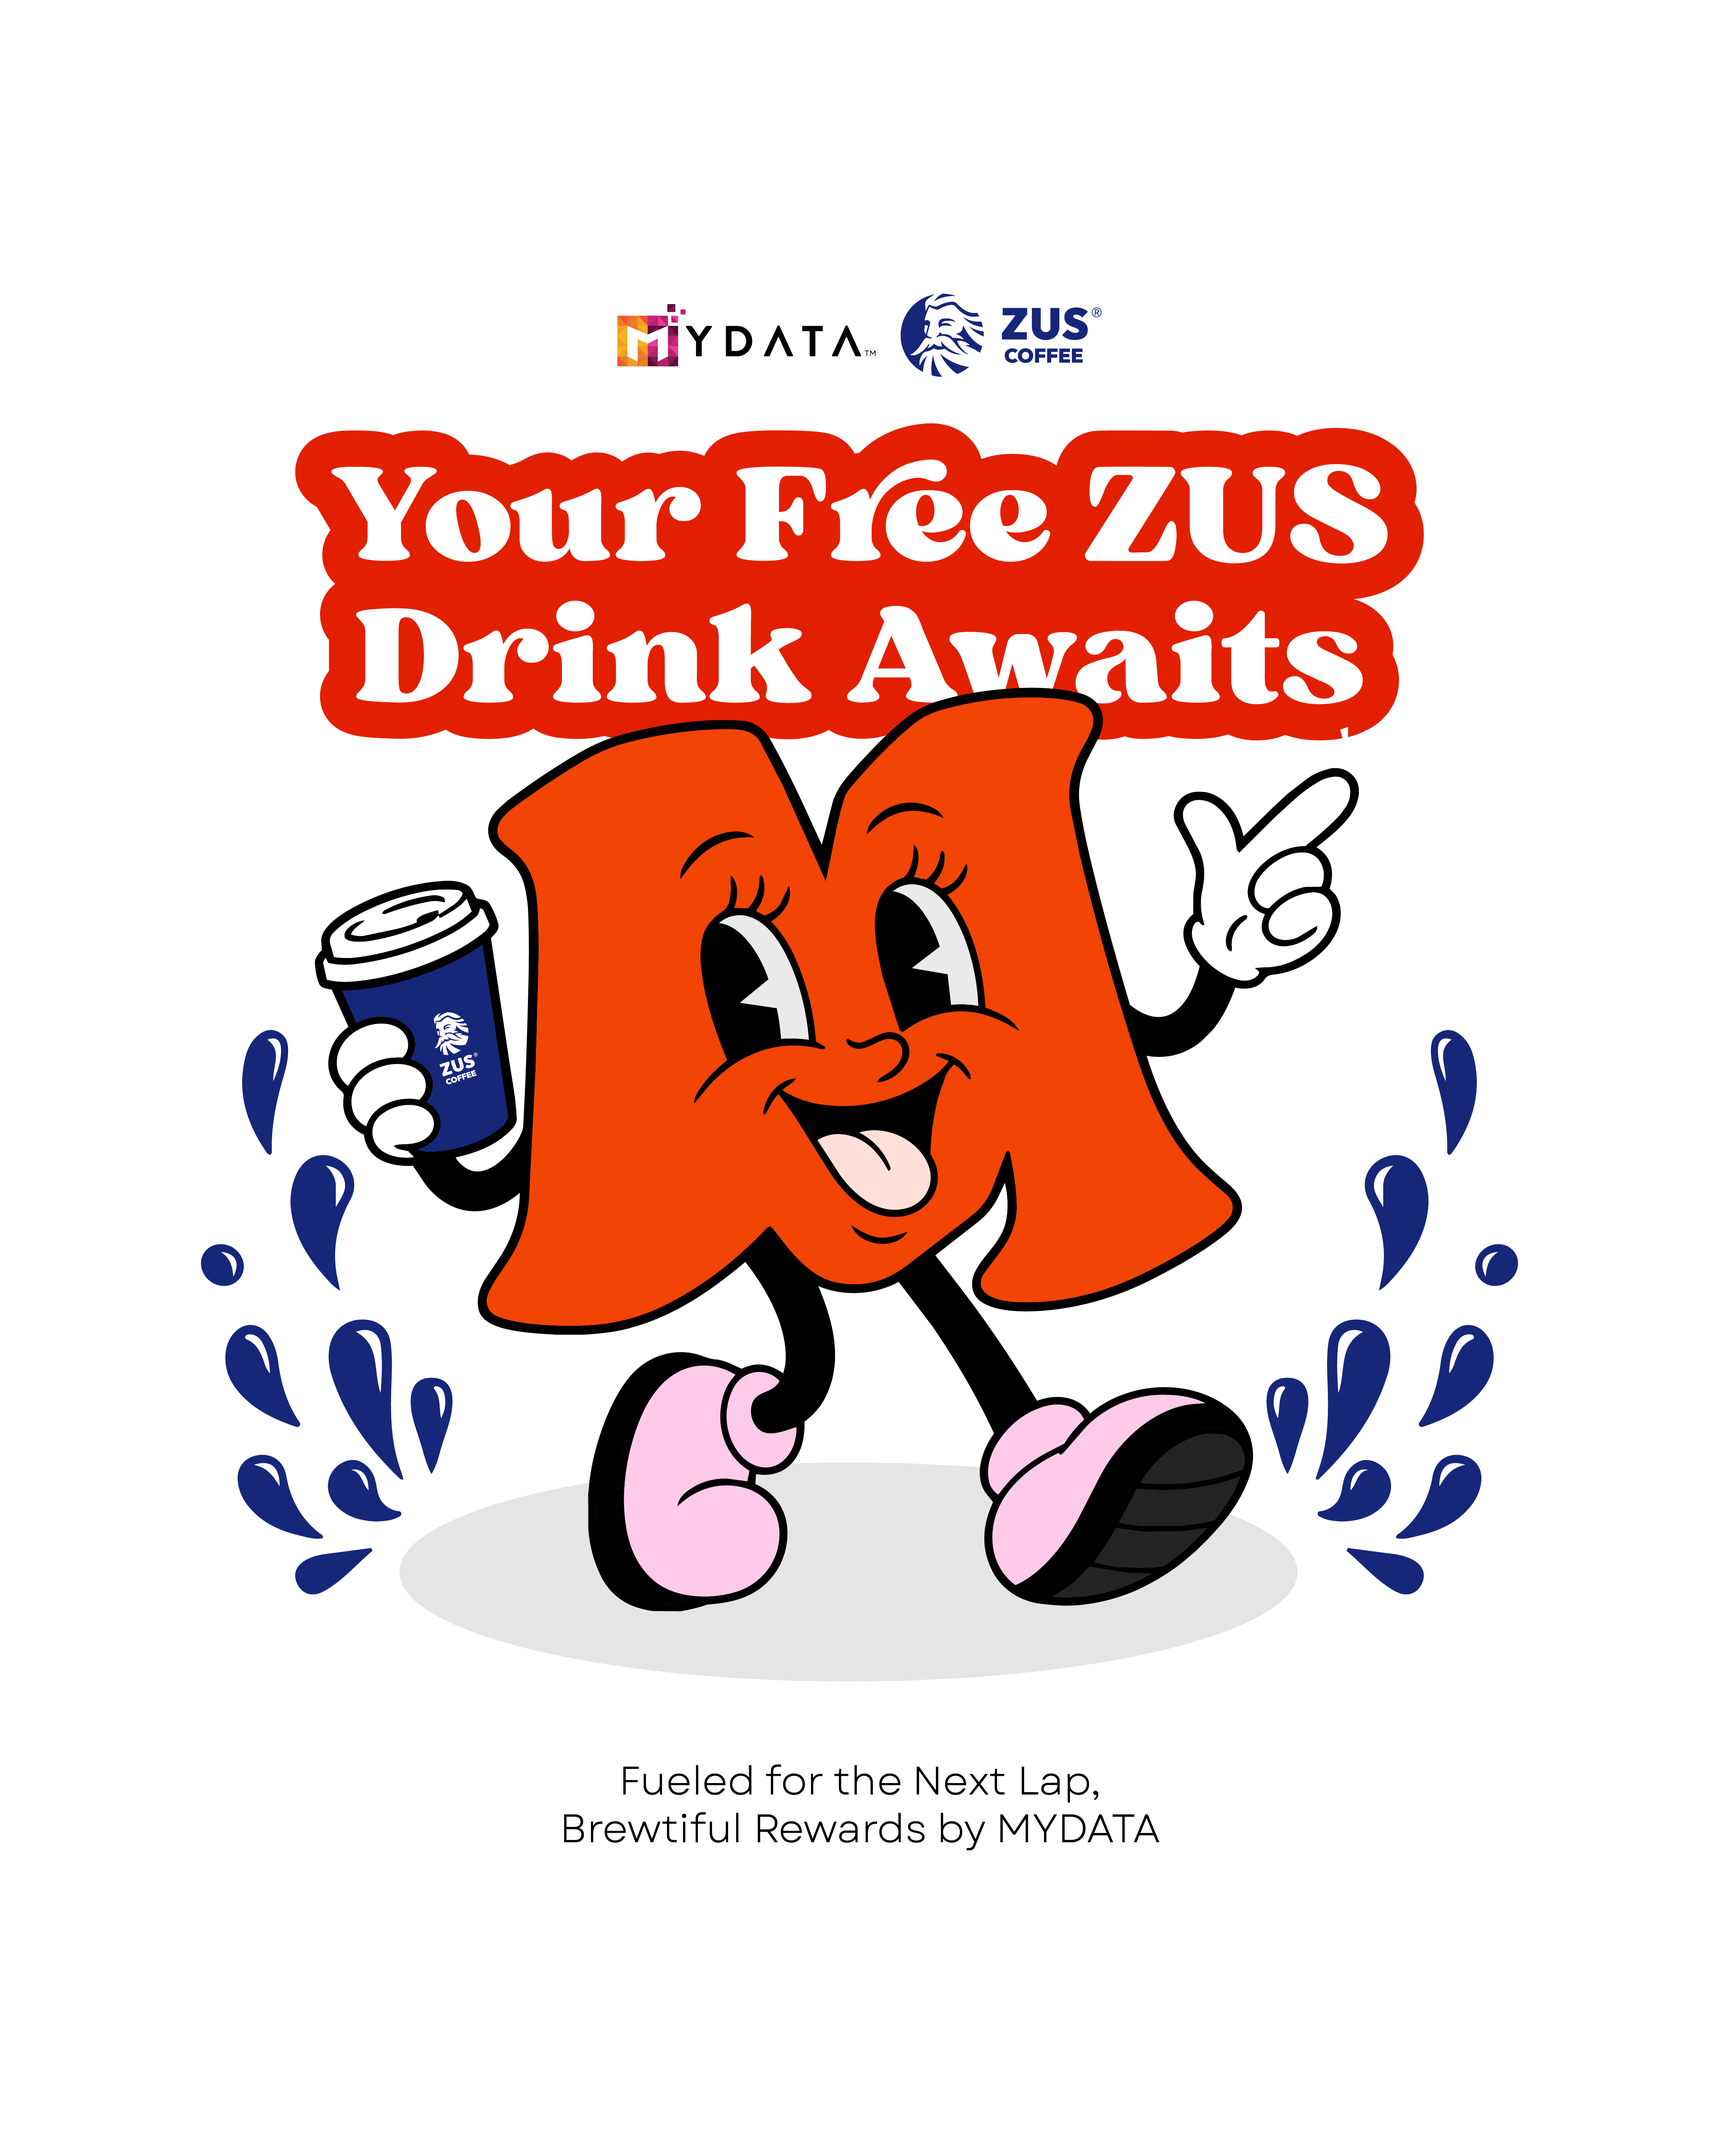
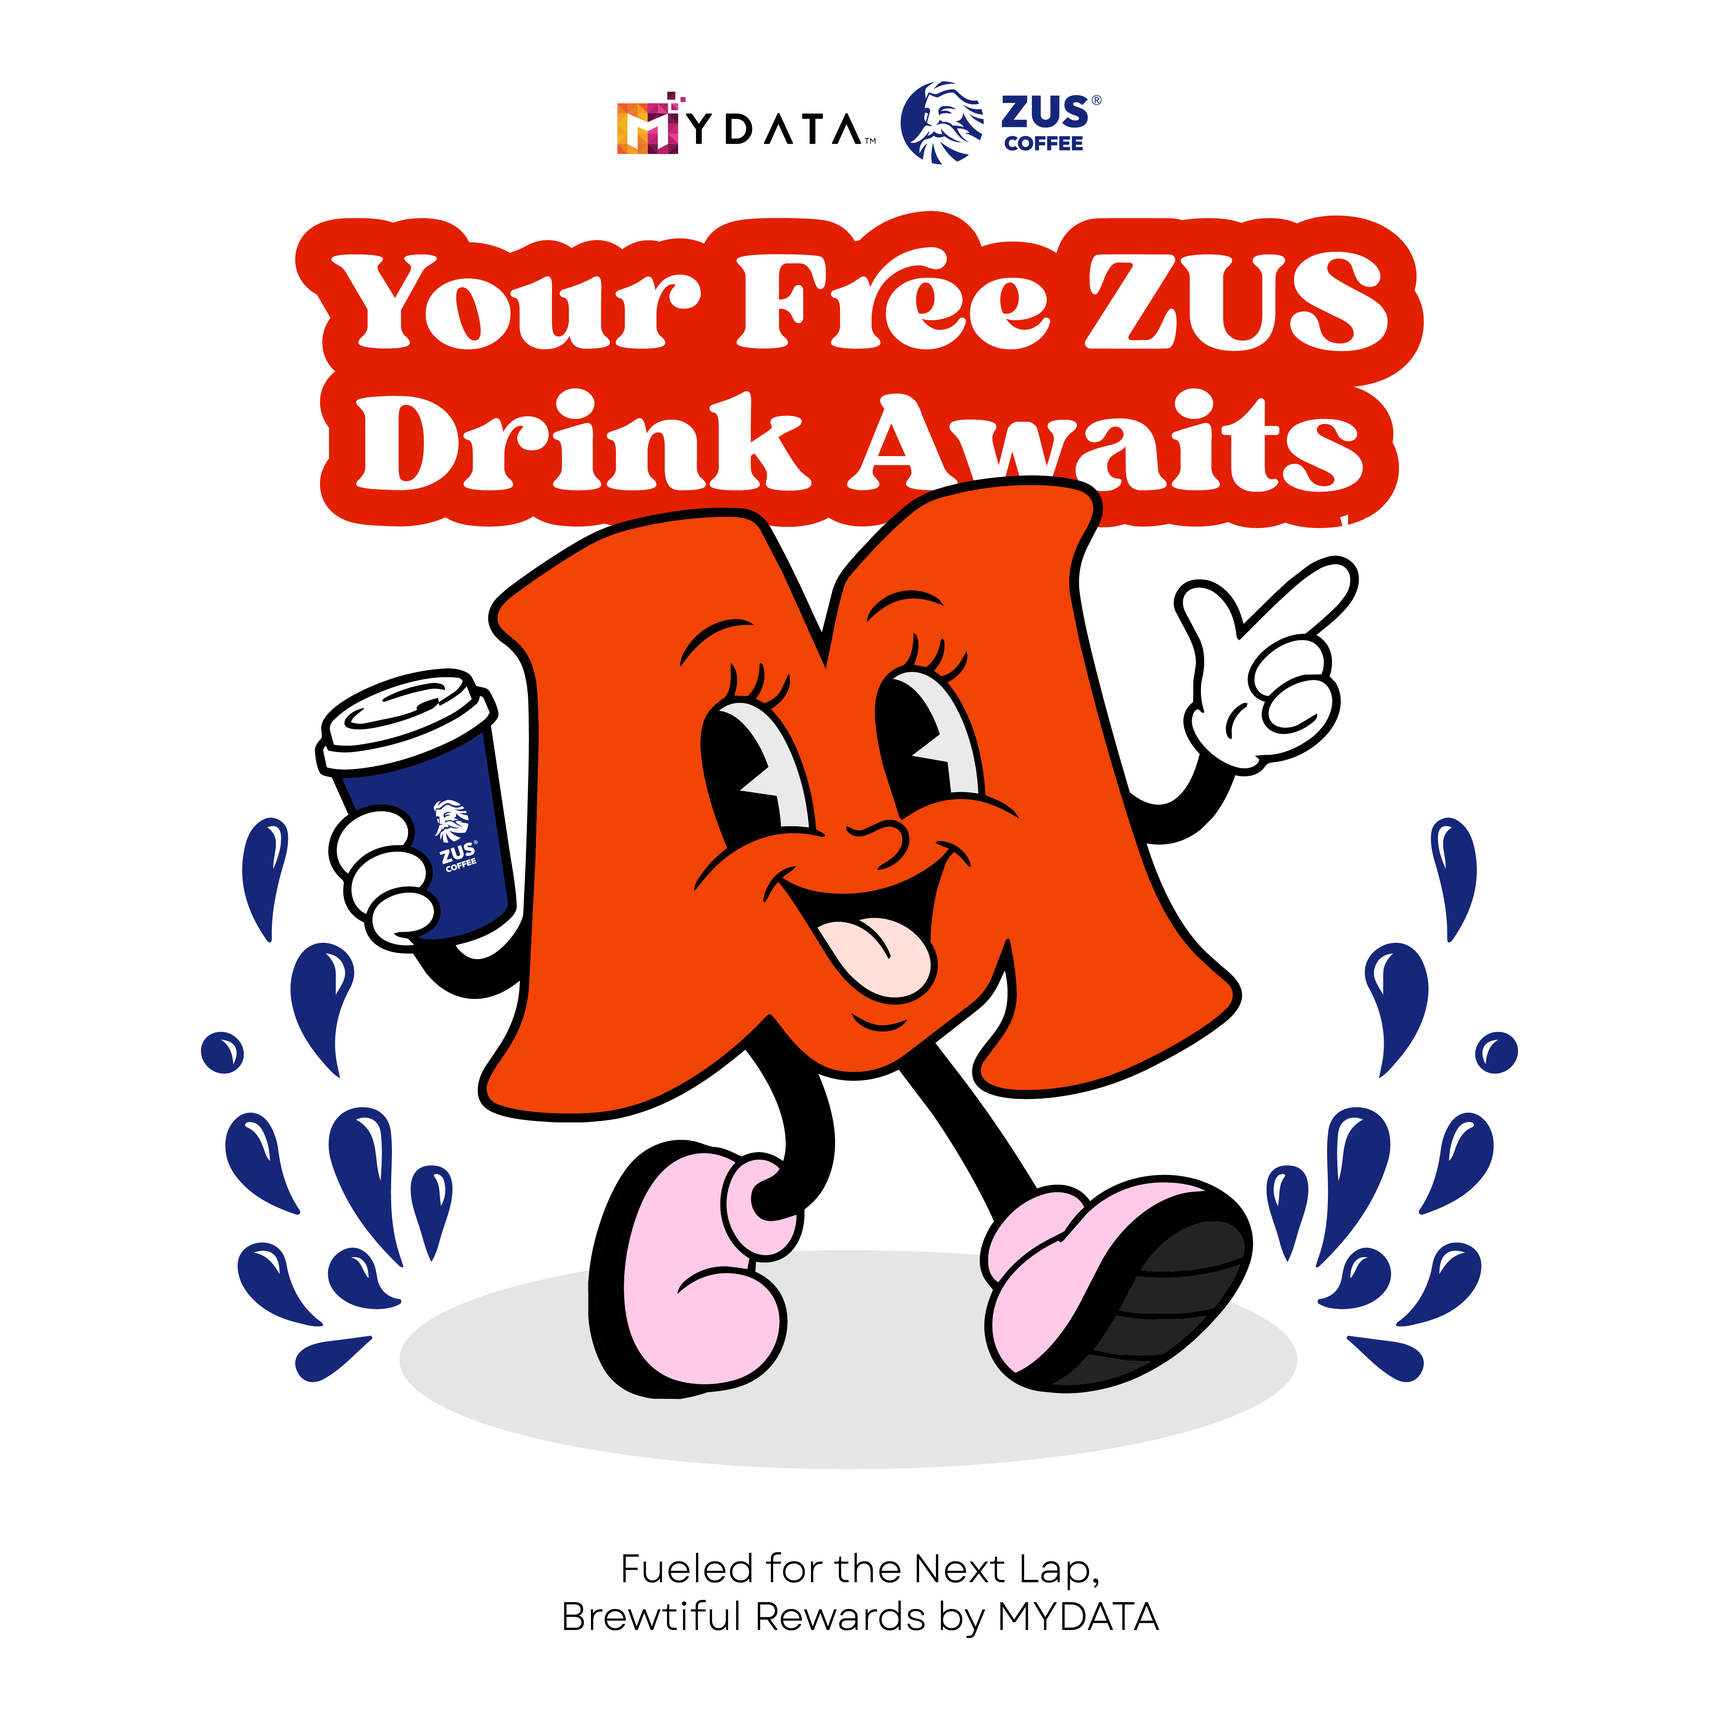
Front page: square campaign visual, half-width Participate button
- campaign-visual.png cropped losslessly from 4500x5626 to 4500x4500,
  removing only fully transparent space (212px kept above and below the
  artwork). Pixel-identical to the original in the kept area; 694 KB.
- Visual shown as a square: full width on phones, up to 672x672 on
  desktop/tablet (now also on 1440x900 laptops).
- Participate button is 50% of the image width, centred; text size and
  weight unchanged.

Claude-Session: https://claude.ai/code/session_01Pnb6DMHR8CZC8MpE8RqUHn

diff --git a/src/components/Campaign.tsx b/src/components/Campaign.tsx
@@ -6,11 +6,11 @@ interface CampaignProps {
 }
 
 /**
- * Width of the 4:5 visual: the full column on phones, 672px at most on
- * desktop/tablet, and never so tall that the Participate button drops below
- * the fold (the 220px covers the button, spacing and footer).
+ * Width (= height) of the square visual: the full column on phones, 672px at
+ * most on desktop/tablet, and never so tall that the Participate button drops
+ * below the fold (the 220px covers the button, spacing and footer).
  */
-const VISUAL_WIDTH = 'min(100%, 672px, max(240px, calc((100svh - 220px) * 0.8)))';
+const VISUAL_WIDTH = 'min(100%, 672px, max(240px, calc(100svh - 220px)))';
 
 /** Page 1 — the campaign visual (which carries the branding) and the call to action. */
 export const Campaign: React.FC<CampaignProps> = ({ onParticipate }) => (
@@ -27,13 +27,13 @@ export const Campaign: React.FC<CampaignProps> = ({ onParticipate }) => (
         alt={HERO_IMAGE.alt}
         width={HERO_IMAGE.width}
         height={HERO_IMAGE.height}
-        className="w-full aspect-[4/5] rounded-[20px] object-cover"
+        className="w-full aspect-square rounded-[20px] object-cover"
       />
 
       <button
         type="button"
         onClick={onParticipate}
-        className="w-full h-[52px] bg-[#e22000] hover:bg-[#c41c00] active:bg-[#a81800] text-white text-[17px] font-semibold rounded-[980px] transition cursor-pointer focus-visible:outline-2 focus-visible:outline-offset-2 focus-visible:outline-[#e22000]"
+        className="w-1/2 h-[52px] bg-[#e22000] hover:bg-[#c41c00] active:bg-[#a81800] text-white text-[17px] font-semibold rounded-[980px] transition cursor-pointer focus-visible:outline-2 focus-visible:outline-offset-2 focus-visible:outline-[#e22000]"
       >
         Participate
       </button>

diff --git a/src/content/campaign.ts b/src/content/campaign.ts
@@ -4,19 +4,20 @@
 
 /**
  * Campaign visual on the first page — one image carrying all the branding
- * (MYDATA × ZUS logos, headline, artwork). Shown at 4:5 portrait, up to 672px
+ * (MYDATA × ZUS logos, headline, artwork). Shown as a square, up to 672px
  * wide on desktop/tablet and full width on phones.
  *
- * Spec for replacements: 4:5, at least 1440 × 1800 px, transparent or white
- * background, logos/text at least 60px in from every edge. The current file is
- * the designer's original PNG, used as supplied.
+ * Spec for replacements: 1:1 square, at least 1440 × 1440 px, transparent or
+ * white background, logos/text at least 60px in from every edge. The current
+ * file is the designer's original PNG, cropped losslessly to a square by
+ * removing only empty transparent space above and below the artwork.
  */
 export const HERO_IMAGE = {
   src: '/campaign-visual.png',
   // The words in the artwork, for screen readers and if the image fails to load.
   alt: 'MYDATA × ZUS Coffee — Your Free ZUS Drink Awaits. Fueled for the Next Lap, Brewtiful Rewards by MYDATA.',
   width: 4500,
-  height: 5626,
+  height: 4500,
   /** True only while a stand-in image is used; shows a "Draft" banner. */
   placeholder: false,
 };
